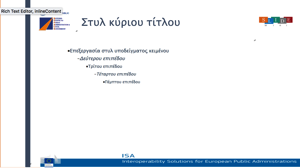
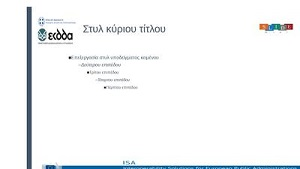
Update EKDDA thumbnails and add VMU template

Changed region(s): [[0.0, 0.0, 1.0, 1.0], [0.21, 0.2679, 0.57, 0.5357], [0.84, 0.0893, 0.99, 0.2083]]

diff --git a/components/Deck/ContentPanel/SlideModes/SlideEditPanel/SlideContentEditor.js b/components/Deck/ContentPanel/SlideModes/SlideEditPanel/SlideContentEditor.js
@@ -494,7 +494,7 @@ class SlideContentEditor extends React.Component {
                 this.rewriteTemplate(template, keepExistingContent, pptx2htmlStartDiv, pptx2htmlcontent, pptx2htmlCloseDiv);
                 break;
             case 'TIBtitle':
-                pptx2htmlStartDiv = '<div class="pptx2html" id="96004" style="position: relative; width: 960px; height: 720px; border-style: double; border-color: rgb(218, 102, 25); transform: scale(1.03187, 1.03187); transform-origin: left top 0px;">';
+                pptx2htmlStartDiv = '<div class="pptx2html" id="96004" style="position: relative; width: 960px; height: 720px; border-style: double; border-color: rgb(218, 102, 25);">';
                 pptx2htmlcontent = '<div id="51108"></div>'+
                 '<div _id="2" _idx="undefined" _name="Title 1" _type="ctrTitle" class="block content v-down context-menu-disabled" id="7861" style="position: absolute; top: 117.833px; left: 120px; width: 720px; height: 250.667px; border-width: 1pt; border-image: none 100% / 1 / 0 stretch; -moz-border-top-colors: none; -moz-border-left-colors: none; -moz-border-bottom-colors: none; -moz-border-right-colors: none; z-index: 5302; cursor: auto;" tabindex="0">'+
                 '<div class="h-mid" id="75057">'+
@@ -535,6 +535,29 @@ class SlideContentEditor extends React.Component {
                 '<div class="h-mid" id="52795"><span class="text-block" id="12515" style="color: inherit; font-size: inherit; font-family: inherit; font-weight: inherit; font-style: inherit; text-decoration: initial; vertical-align: ;">&nbsp;</span></div>'+
                 '</div>'+
                 '</div>';
+                pptx2htmlCloseDiv = '</div>';
+                this.rewriteTemplate(template, keepExistingContent, pptx2htmlStartDiv, pptx2htmlcontent, pptx2htmlCloseDiv);
+                break;
+            case 'VMU':
+                pptx2htmlStartDiv = '<div class="pptx2html" id="42690" style="position: relative; width: 1280px; height: 720px; border-style: double; border-color: rgba(218, 102, 25, 0.5);">';
+                pptx2htmlcontent = '<div id="32657" style="position: absolute; top: 512px; left: 71px; width: 587px; height: 44px; z-index: 2147483647; cursor: auto;" tabindex="0">'+
+                    '<div class="h-mid" id="85086">'+
+                    '<p id="33865" style="margin-top:0pt; margin-bottom:0pt; margin-left:0in; text-align:left"><font id="13787" face="Georgia" color="#000000"><span id="12663" style="font-size: 26px;">Vardenis Pavardenis</span></font></p>'+
+                    '</div>'+
+                    '</div>'+
+                    '<div id="24138" style="position: absolute; top: 341px; left: 74px; width: 1125px; height: 74.7398px; z-index: 2147383647; cursor: auto;" tabindex="0">'+
+                    '<div class="h-mid" id="35713">'+
+                    '<p id="42359"><span style="font-size:48px;" id="68655"><span class="text-block" id="93031"><span id="89782"><span id="30011" style="font-family:Georgia,serif;">Pavadinimas</span></span></span></span></p>'+
+                    '</div>'+
+                    '</div>'+
+                    '<div id="76884" style="position: absolute; top: 12px; left: 492px; z-index: 2147383647; cursor: auto; width: 306.302px; height: 276.129px;" tabindex="0">'+
+                    '<img alt="VDU logo" id="66624" src="https://fileservice.slidewiki.org/picture/7a57f4fb49ec1b94113f09c4dd617a0175fdab23340ea85d7819cd9c8d792998.png" style="width: 306.302px; height: 276.129px;">'+
+                    '</div>'+
+                    '<div id="89144" style="position: absolute; top: 628px; left: 74px; width: 400px; height: 72px; z-index: 2147483647; cursor: auto;" tabindex="0">'+
+                    '<div class="h-mid" id="84724">'+
+                    '<p id="78600" style="text-align: left;"><span class="text-block" id="37616"><span id="61900" style="font-size:16px;"><span id="75966" style="font-family:Georgia,serif;">Vytauto Didžiojo universitetas</span></span></span></p>'+
+                    '</div>'+
+                    '</div>';
                 pptx2htmlCloseDiv = '</div>';
                 this.rewriteTemplate(template, keepExistingContent, pptx2htmlStartDiv, pptx2htmlcontent, pptx2htmlCloseDiv);
                 break;

diff --git a/components/Deck/SlideEditLeftPanel/SlideEditLeftPanel.js b/components/Deck/SlideEditLeftPanel/SlideEditLeftPanel.js
@@ -471,6 +471,10 @@ class SlideEditLeftPanel extends React.Component {
                       <i tabIndex="0" aria-label="TIB template - title page"><FormattedMessage id='editpanel.templateTIBtitle' defaultMessage='TIB template - Title page' /><br/> <FormattedMessage id='editpanel.template960px' defaultMessage='960 * 720 pixels (4:3)' /></i> <br/><br/>
                       <img aria-hidden="true" style={dropDownItemStyle} className="ui image small bordered fluid" src="/assets/images/templates/TIBtitle.png" alt="template - TIB template title page - English" />
                   </a>
+                  <a className="item" role="button" onClick={this.handleTemplatechange.bind(this, 'VMU')} onKeyPress={(evt) => this.handleKeyPress(evt, 'handleTemplatechange', 'VMU')}>
+                      <i tabIndex="0" aria-label="TIB template - title page"><FormattedMessage id='editpanel.templateVMU' defaultMessage='VMU template - Title page' /><br/> <FormattedMessage id='editpanel.template1280px' defaultMessage='1280 * 720 pixels (720p 16:9)' /></i> <br/><br/>
+                      <img aria-hidden="true" style={dropDownItemStyle} className="ui image small bordered fluid" src="/assets/images/templates/VMU.png" alt="template - VMU template title page - English" />
+                  </a>
                 </div>);
 
         let propertiesContent  = (
